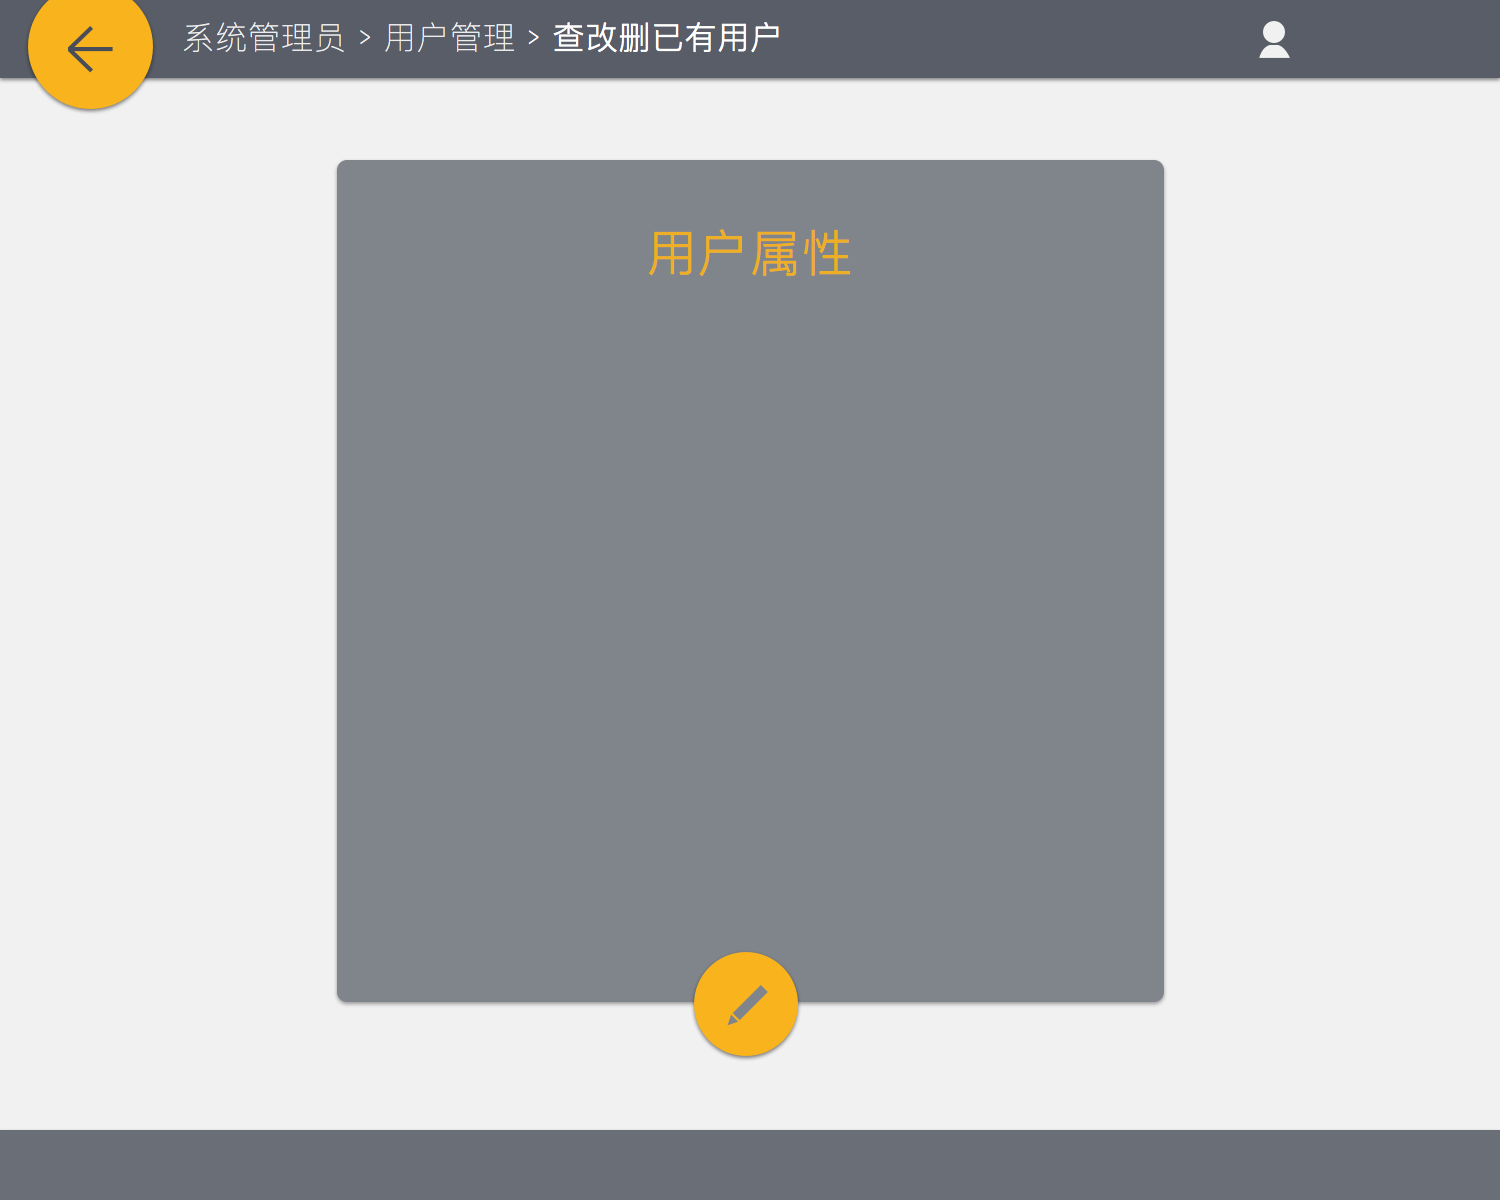
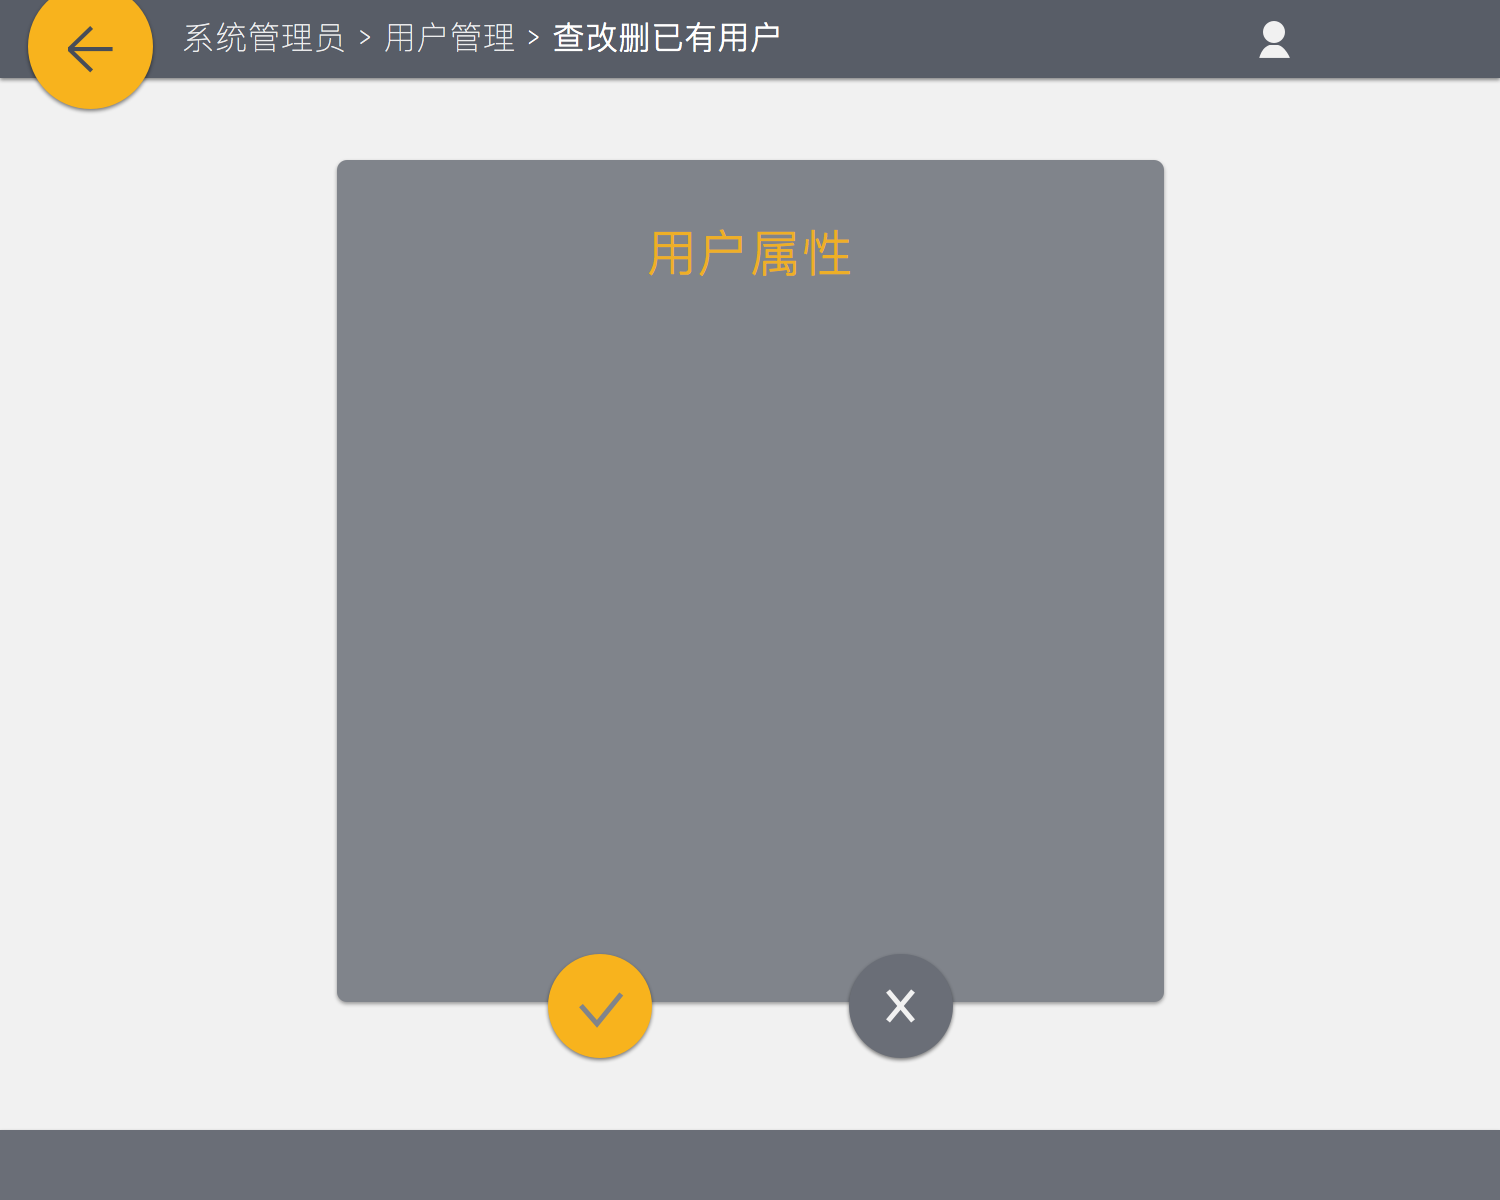
界面调整

Changed region(s): [[0.368, 0.7708, 0.644, 0.8942]]

diff --git a/MSE_All/MSE_Client/src/nju/edu/presentation/system_administratorui/IDforManager.java b/MSE_All/MSE_Client/src/nju/edu/presentation/system_administratorui/IDforManager.java
@@ -39,7 +39,7 @@ public class IDforManager extends JPanel {
 	 */
 
 	protected void paintComponent(Graphics g) {
-		ImageIcon image = new ImageIcon("image/system_stuff/checkUserPanel.png");
+		ImageIcon image = new ImageIcon("image/system_stuff/IdForManager.png");
 		g.drawImage(image.getImage(), 0, 0, getSize().width, getSize().height,
 				this);
 	}
@@ -90,9 +90,9 @@ public class IDforManager extends JPanel {
 		toolBar.add(lblNewLabel);
 
 		JButton button_1 = new JButton();
-		// button_1.setContentAreaFilled(false);
-		// button_1.setBorderPainted(false);
-		button_1.setBounds(350, 459, 52, 52);
+		button_1.setContentAreaFilled(false);
+		button_1.setBorderPainted(false);
+		button_1.setBounds(347, 459, 52, 52);
 		ImageIcon image = new ImageIcon("image/transparent_circle.png");
 		Image temp = image.getImage().getScaledInstance(button_1.getWidth(),
 				button_1.getHeight(), image.getImage().SCALE_DEFAULT);

diff --git a/MSE_All/MSE_Client/src/nju/edu/presentation/system_administratorui/NewUserPanel.java b/MSE_All/MSE_Client/src/nju/edu/presentation/system_administratorui/NewUserPanel.java
@@ -260,7 +260,9 @@ public class NewUserPanel extends JPanel implements Runnable {
 		});
 		add(button_1);
 
-		JButton btnManager = new JButton("Manager");
+		JButton btnManager = new JButton("");
+		btnManager.setContentAreaFilled(false);
+		btnManager.setBorderPainted(false);
 		btnManager.addActionListener(new ActionListener() {
 			public void actionPerformed(ActionEvent arg0) {
 				main.remove(nup);
@@ -271,7 +273,7 @@ public class NewUserPanel extends JPanel implements Runnable {
 				main.setVisible(true);
 			}
 		});
-		btnManager.setBounds(545, 420, 52, 52);
+		btnManager.setBounds(416, 116, 52, 52);
 		add(btnManager);
 	}
 

diff --git a/MSE_All/MSE_Client/src/nju/edu/presentation/system_administratorui/CheckUserPanel.java b/MSE_All/MSE_Client/src/nju/edu/presentation/system_administratorui/CheckUserPanel.java
@@ -40,7 +40,7 @@ public class CheckUserPanel extends JPanel implements Runnable {
 	 * Create the panel.
 	 */
 	protected void paintComponent(Graphics g) {
-		ImageIcon image = new ImageIcon("image/system_stuff/checkUserPanel.png");
+		ImageIcon image = new ImageIcon("image/system_stuff/CheckUserPanel.png");
 		g.drawImage(image.getImage(), 0, 0, getSize().width, getSize().height,
 				this);
 	}
